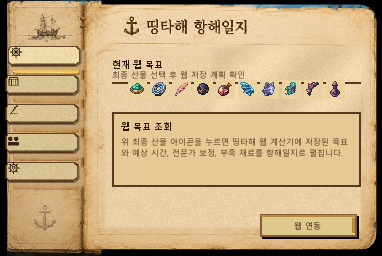
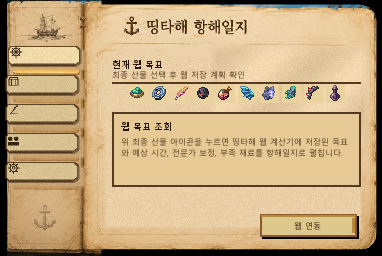
auto update

Changed region(s): [[0.3168, 0.3125, 0.8927, 0.4062]]

diff --git a/scripts/render_journal_previews.py b/scripts/render_journal_previews.py
@@ -167,7 +167,7 @@ def draw_goal_content(canvas: Image.Image, night: bool, title_font, sub_font, bo
     gap = 4
     total = len(ALCHEMY_ICONS) * icon_size + (len(ALCHEMY_ICONS) - 1) * gap
     start_x = CONTENT_X + max(0, (CONTENT_W - total) // 2)
-    y = 80
+    y = 84
     for index, name in enumerate(ALCHEMY_ICONS):
         icon_x = start_x + index * (icon_size + gap)
         fill = (106, 59, 30, 50) if night else (234, 210, 160, 68)
